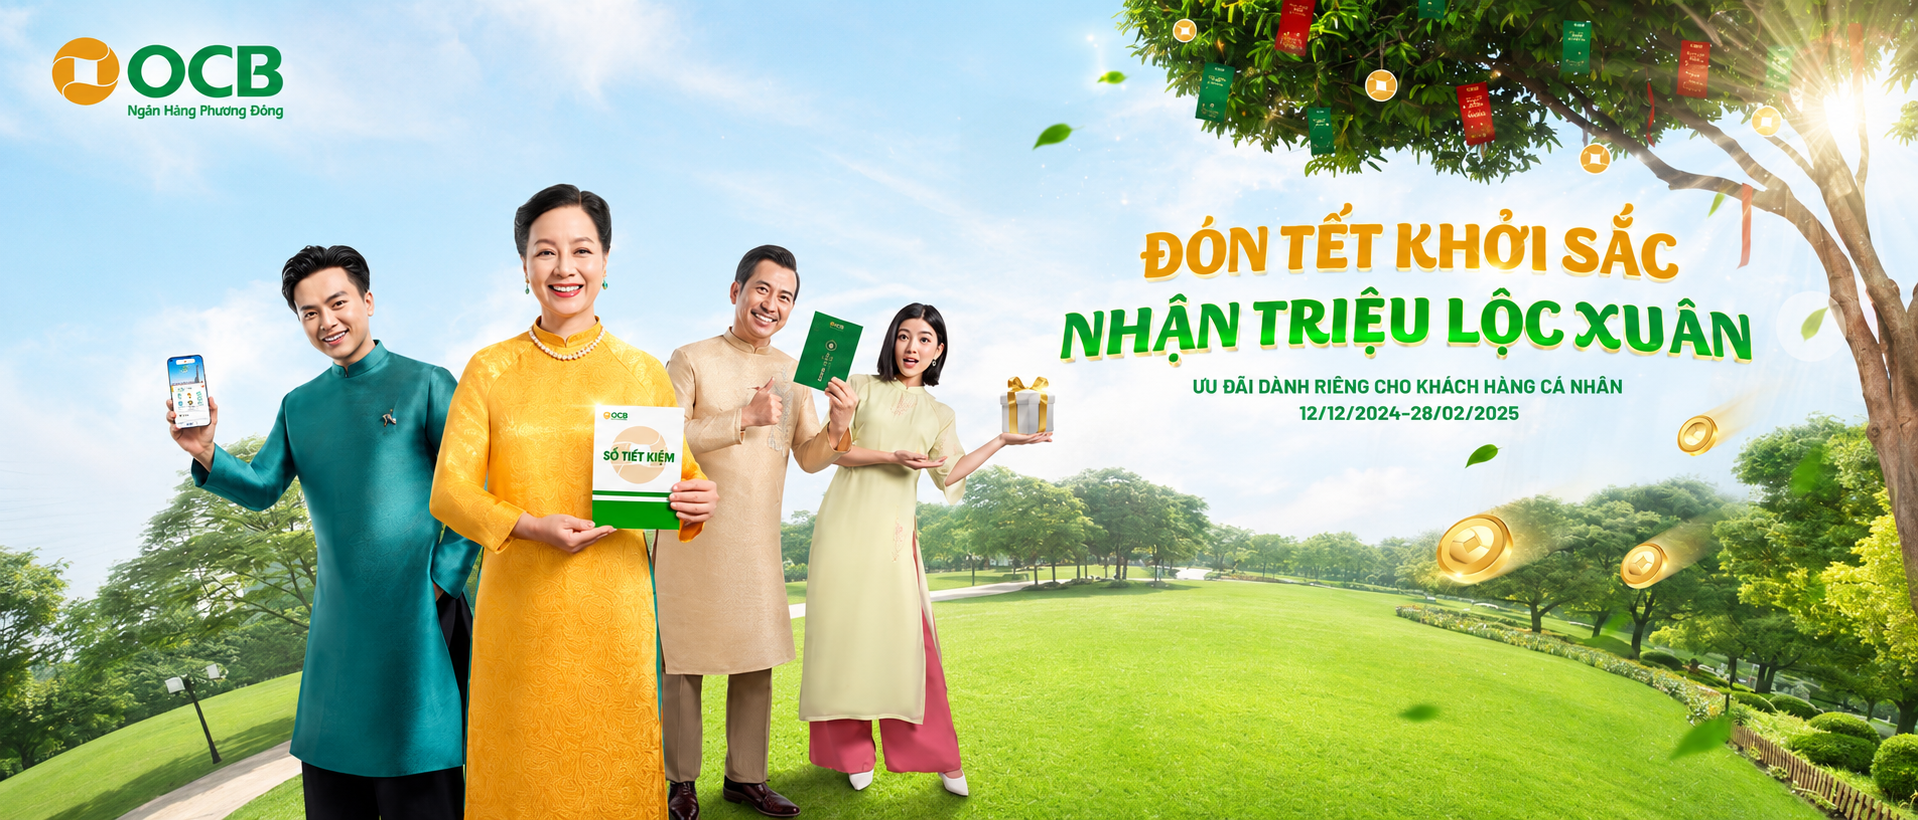
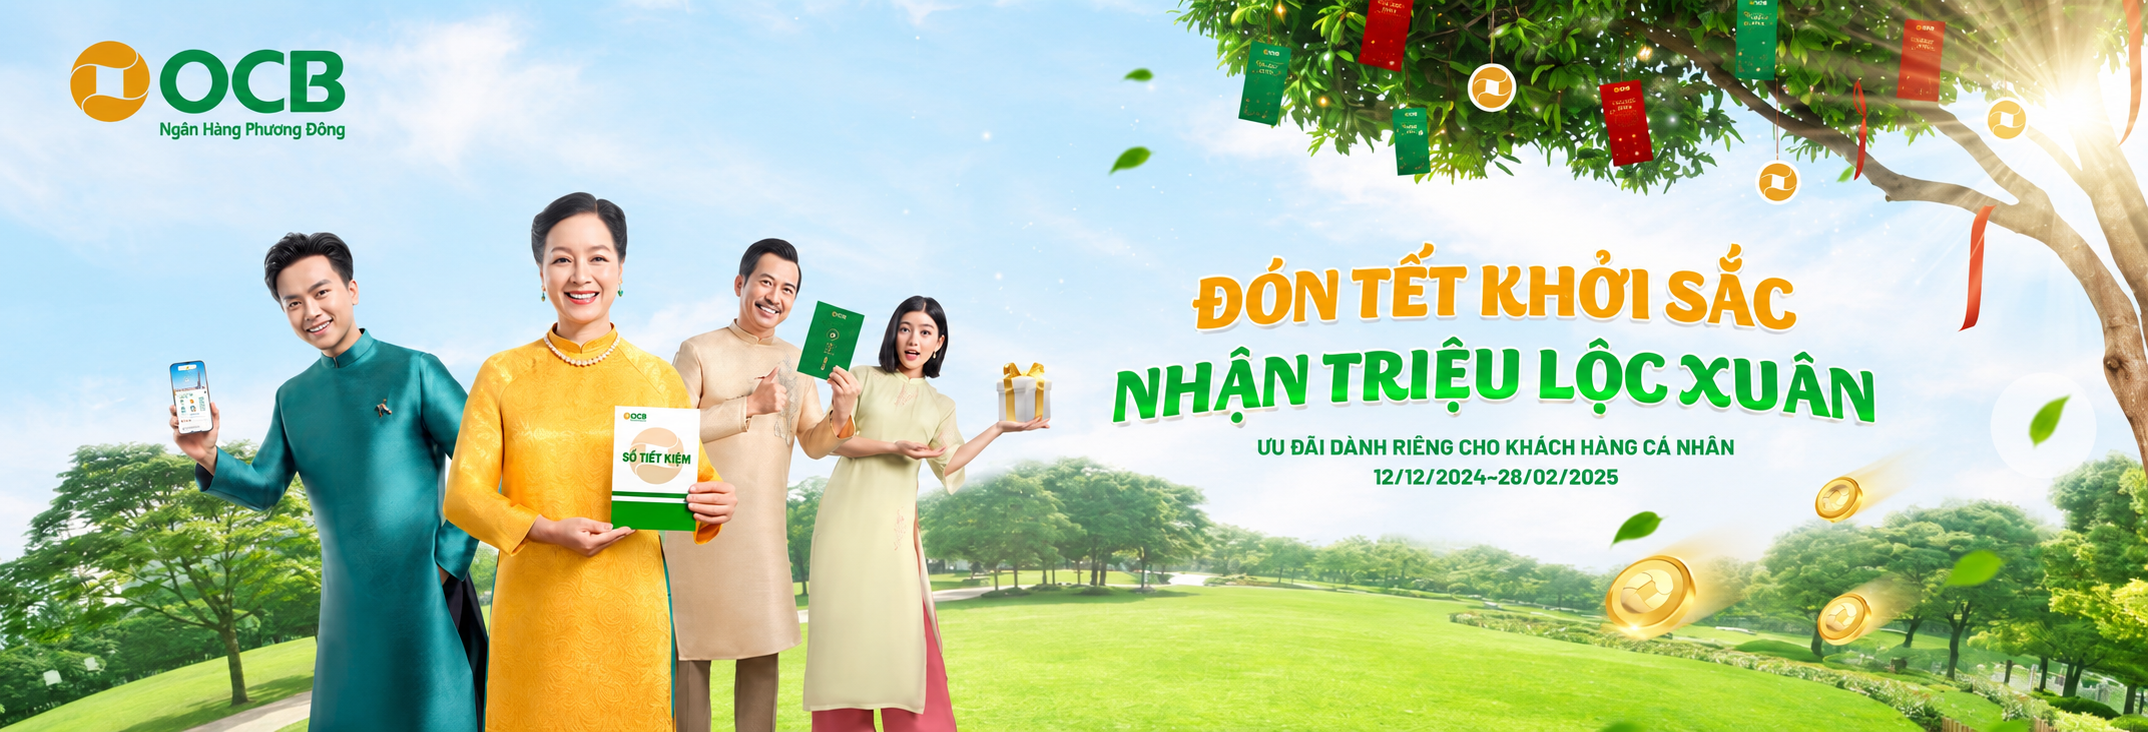
Add files via upload

diff --git a/index.html b/index.html
@@ -789,8 +789,8 @@
     <section id="work" class="py-24 md:py-32 bg-[#F2EFEA] section-anchor overflow-hidden">
         <div class="w-full px-6 md:px-10 lg:px-14 xl:px-16">
             
-            <div class="max-w-2xl mx-auto mb-12 md:mb-16 text-center scroll-reveal focus-block">
-                <h2 class="text-5xl md:text-7xl lg:text-8xl font-serif font-semibold text-stone-900 mb-6 apple-scrub-heading">Campaign Stories</h2>
+            <div class="max-w-4xl mx-auto mb-12 md:mb-16 text-center scroll-reveal focus-block">
+                <h2 class="text-4xl sm:text-5xl md:text-7xl lg:text-8xl font-serif font-semibold text-stone-900 mb-6 apple-scrub-heading whitespace-nowrap">Campaign Stories</h2>
                 <p class="text-base md:text-lg text-stone-600 font-light leading-relaxed text-balance mx-auto">
                     These selected projects demonstrate how I translate business objectives into integrated, large-scale marketing programs that deliver measurable corporate results.
                 </p>
@@ -801,11 +801,11 @@
             <div id="stories-carousel" class="flex gap-6 md:gap-8 overflow-x-auto no-scrollbar snap-x snap-mandatory pl-6 md:pl-10 lg:pl-14 xl:pl-16 pr-6 pb-4">
             
             <!-- Featured Card 1: OCB -->
-            <div class="story-card-wrapper snap-start shrink-0 w-[85%] sm:w-[58%] md:w-[44%] lg:w-[35%] xl:w-[31%]">
-            <article class="story-card rounded-2xl md:rounded-3xl overflow-hidden cursor-pointer scroll-reveal group spotlight-wrapper h-full relative" onclick="openStory('story-ocb')" role="button" tabindex="0" aria-label="Read case study: OCB Bank">
+            <div class="story-card-wrapper snap-start shrink-0 w-[92%] sm:w-[75%] md:w-[60%] lg:w-[50%] xl:w-[45%]">
+            <article class="story-card rounded-2xl md:rounded-3xl overflow-hidden cursor-pointer scroll-reveal group spotlight-wrapper h-full relative ring-2 ring-gold-500 ring-offset-4 ring-offset-[#F2EFEA] shadow-xl z-10" onclick="openStory('story-ocb')" role="button" tabindex="0" aria-label="Read case study: OCB Bank">
                 <div class="spotlight"></div>
                 <div class="h-[420px] md:h-[520px] lg:h-[600px] overflow-hidden relative bg-stone-100">
-                    <img src="OCB_Card cover.png" alt="OCB Campaign Visual" class="w-full h-full object-contain story-card-img story-cover opacity-95 mix-blend-multiply" loading="lazy" decoding="async">
+                    <img src="OCB_Card cover.png" alt="OCB Campaign Visual" class="w-full h-full object-cover object-center story-card-img story-cover opacity-95 mix-blend-multiply" loading="lazy" decoding="async">
                     <div class="absolute inset-0 card-img-overlay"></div>
                     <div class="absolute bottom-6 left-6 right-6 z-20">
                         <span class="flex items-center gap-2 text-sm font-bold text-gold-400 mb-3 drop-shadow-md">
@@ -843,7 +843,7 @@
             <article class="story-card rounded-2xl md:rounded-3xl overflow-hidden cursor-pointer scroll-reveal group spotlight-wrapper h-full relative" onclick="openStory('story-kokomi')" role="button" tabindex="0" aria-label="Read case study: Masan Kokomi 90">
                 <div class="spotlight"></div>
                 <div class="h-[420px] md:h-[520px] lg:h-[600px] overflow-hidden relative bg-stone-100">
-                    <img src="Kokomi_Card cover.png" alt="Kokomi Campaign Visual" class="w-full h-full object-contain story-card-img story-cover opacity-90 mix-blend-multiply" loading="lazy" decoding="async">
+                    <img src="Kokomi_Card cover.png" alt="Kokomi Campaign Visual" class="w-full h-full object-cover object-center story-card-img story-cover opacity-90 mix-blend-multiply" loading="lazy" decoding="async">
                     <div class="absolute inset-0 card-img-overlay"></div>
                     <div class="absolute bottom-6 left-6 right-6 z-20">
                         <span class="flex items-center gap-2 text-sm font-bold text-gold-400 mb-3 drop-shadow-md">
@@ -1282,7 +1282,8 @@
         const storiesData = {
             'story-ocb': {
                 navTitle: 'OCB Bank',
-                image: 'OCB_KV.jpeg',
+                image: 'OCB_Card cover.png',
+                thumb: 'OCB_Thumb.png',
                 label: 'Banking • Financial Services',
                 headline: 'Transforming a Tet Campaign into a Long-term Brand Platform',
                 execSummary: {
@@ -1305,6 +1306,7 @@
             'story-vietjet': {
                 navTitle: 'Vietjet Air Academy',
                 image: 'Vietjet_KV.png',
+                thumb: 'Vietjet_Thumb.png',
                 label: 'Education • Aviation',
                 headline: 'Turning Brand Strategy into Integrated Marketing Execution.',
                 execSummary: {
@@ -1327,7 +1329,8 @@
             },
             'story-kokomi': {
                 navTitle: 'Kokomi',
-                image: 'Kokomi_Frame.png',
+                image: 'Kokomi_KV.png',
+                thumb: 'Kokomi_Thumb.png',
                 label: 'FMCG',
                 headline: 'Delivering a Social Video Featuring an AI-generated Brand Mascot.',
                 execSummary: {
@@ -1350,6 +1353,7 @@
             'story-nii': {
                 navTitle: 'Nii Studio',
                 image: 'Nii Studio.png',
+                thumb: 'Nii Studio_Thumb.png',
                 label: 'E-commerce',
                 headline: 'Driving sustainable e-commerce growth through targeted performance marketing and marketplace optimization.',
                 execSummary: {
@@ -1437,8 +1441,8 @@
                     const s = storiesData[otherId];
                     return `
                         <button onclick="openStory('${otherId}')" class="group text-left rounded-xl md:rounded-2xl overflow-hidden border border-stone-200/60 bg-white hover:shadow-lg hover:border-stone-300 transition-all duration-300 focus-visible:outline-none focus-visible:ring-2 focus-visible:ring-stone-400">
-                            <div class="h-32 md:h-40 overflow-hidden relative bg-stone-100">
-                                <img src="${s.image}" alt="${s.navTitle} Campaign Visual" class="w-full h-full object-contain opacity-90 mix-blend-multiply transition-transform duration-500 group-hover:scale-105" loading="lazy" decoding="async">
+                            <div class="h-32 md:h-40 overflow-hidden relative bg-stone-100 flex items-center justify-center">
+                                <img src="${s.thumb}" alt="${s.navTitle} Campaign Visual" class="w-full h-full object-cover object-center opacity-90 mix-blend-multiply transition-transform duration-500 group-hover:scale-105" loading="lazy" decoding="async">
                             </div>
                             <div class="p-4">
                                 <span class="text-[11px] font-bold tracking-[0.15em] text-gold-600 uppercase block mb-1">${s.label}</span>
@@ -1452,8 +1456,8 @@
             modalContent.innerHTML = `
                 <!-- Hero Image Area -->
                 <div class="w-full px-6 mb-12 md:mb-20 mt-6">
-                    <div class="w-full h-[35vh] md:h-[55vh] lg:h-[65vh] rounded-2xl md:rounded-3xl overflow-hidden relative bg-stone-100">
-                        <img src="${data.image}" class="w-full h-full object-contain bg-stone-100 modal-hero-img" alt="${data.navTitle} Campaign Visual" loading="eager" decoding="async">
+                    <div class="w-full rounded-2xl md:rounded-3xl overflow-hidden relative bg-stone-100 flex items-center justify-center">
+                        <img src="${data.image}" class="w-full h-auto object-contain bg-stone-100 modal-hero-img" alt="${data.navTitle} Campaign Visual" loading="eager" decoding="async">
                     </div>
                 </div>
 
@@ -1495,7 +1499,7 @@
 
             // GSAP Animations for Modal
             setTimeout(() => {
-                gsap.to('.modal-hero-img', { scale: 1.03, duration: 20, ease: "linear" });
+                // gsap.to('.modal-hero-img', { scale: 1.03, duration: 20, ease: "linear" });
                 
                 gsap.to('.modal-section', {
                     y: 0,
